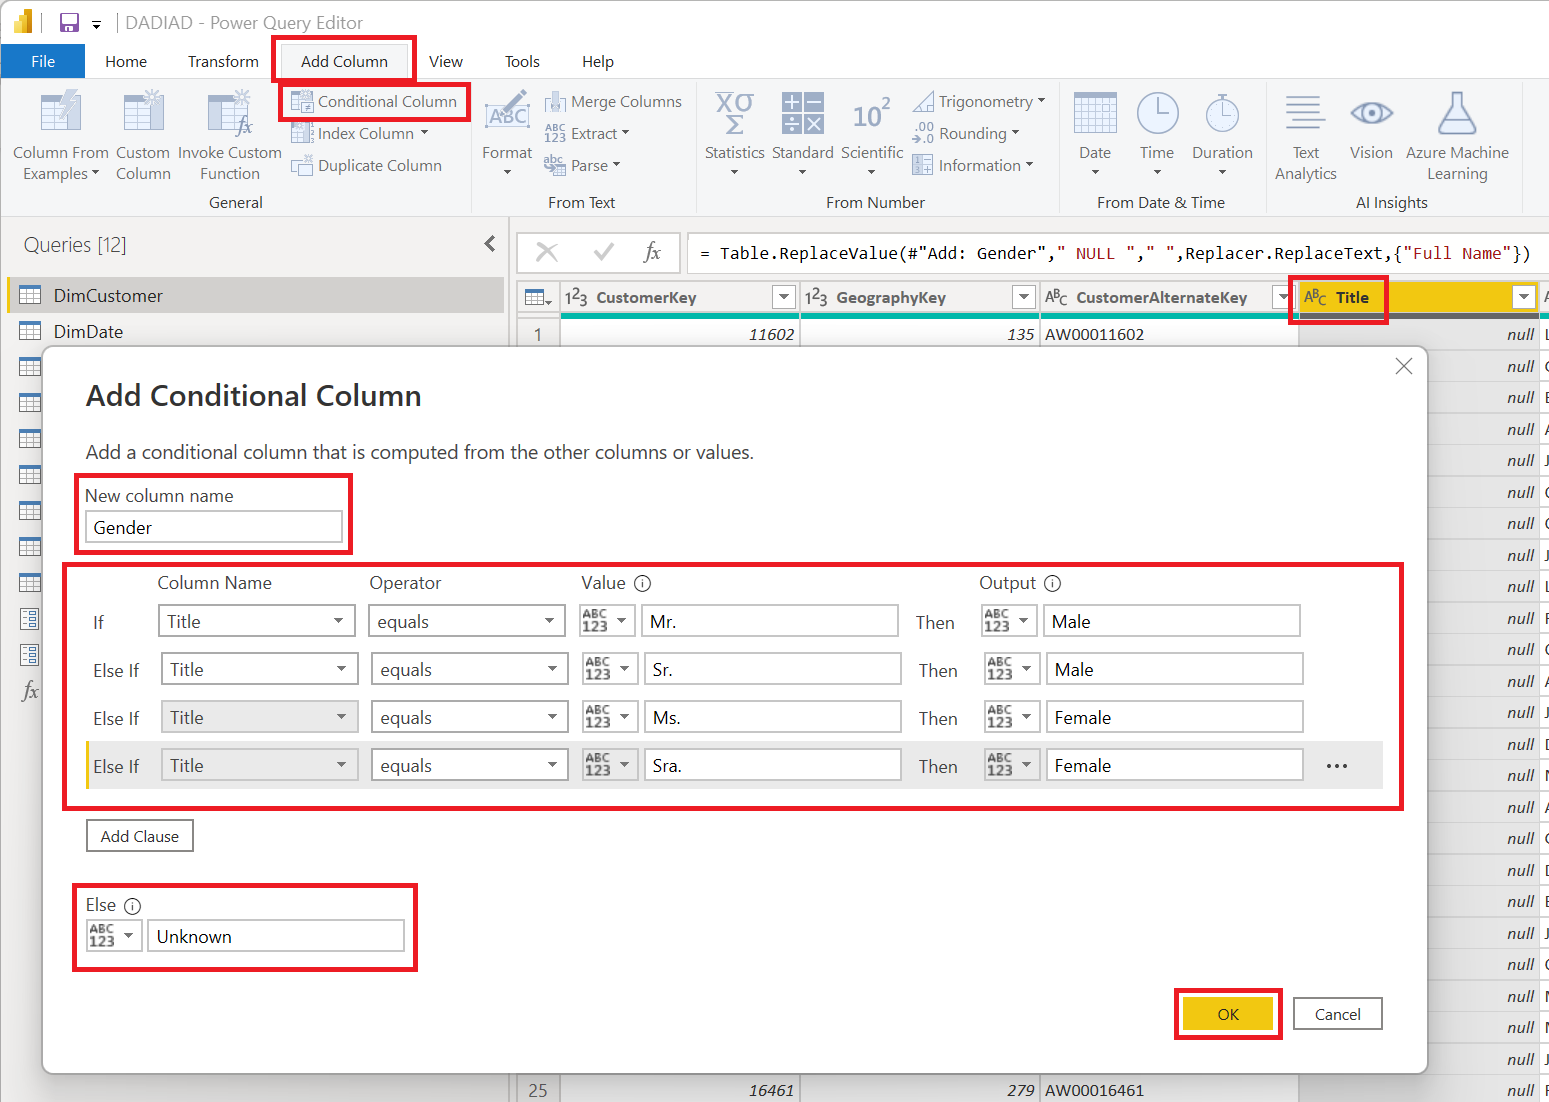
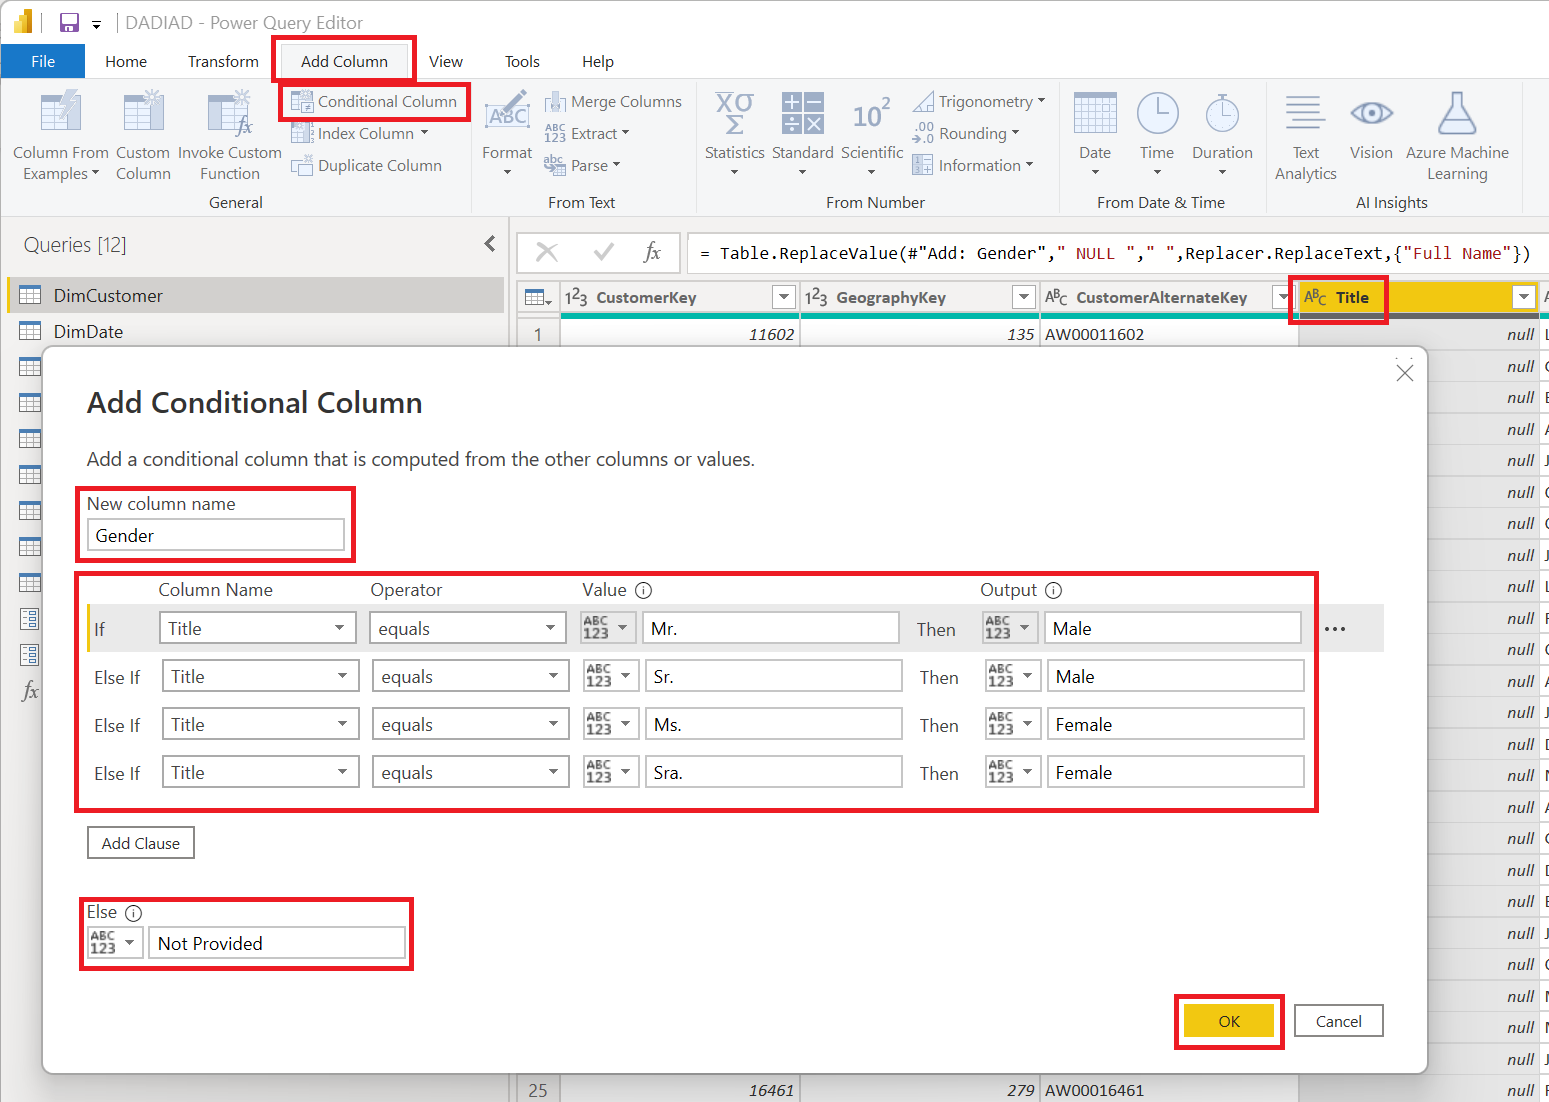
Correcting M queries

Changed region(s): [[0.031, 0.4011, 0.9296, 0.8947], [0.7437, 0.8947, 0.8986, 0.9564], [0.062, 0.3394, 0.2789, 0.3702]]

diff --git a/Day After Dashboard in a Day/DataPreparation.md b/Day After Dashboard in a Day/DataPreparation.md
@@ -494,7 +494,18 @@ Query folding is the ability for a Power Query query to generate a single query 
 
     ![Power Platform dataflows.](./Media/ppDataflows.png)
 
-1. Within the **Navigator** window, navigate to the group Workspace where the dataflow is located and select all of the tables located within the dataflow. Select **Transform Data** when complete to enter the **Power Query Editor** window.
+1. Within the **Navigator** window, navigate to the group Workspace where the dataflow is located and select all of the tables listed below within the dataflow, once complete select the **Transform Data** option to continue.
+
+    | Table |
+    | :---- |
+    | DimCustomer |
+    | DimDate |
+    | DimEmployee |
+    | DimGeography |
+    | DimProduct_raw |
+    | DimProductCategory_raw |
+    | DimProductSubcategory_raw |
+    | FactInternetSales |
 
     ![Get dataflow tables.](./Media/getDataDataflow.png)
 
@@ -521,7 +532,7 @@ Query folding is the ability for a Power Query query to generate a single query 
     | If | Title | equals | Sr. | Male |
     | If | Title | equals | Ms. | Female |
     | If | Title | equals | Sra. | Female |
-    | else | Unknown | | |
+    | else | Not Provided | | |
 
     ![View Native Query.](./Media/AddConditionalColumn.png)
 
@@ -545,7 +556,7 @@ Query folding is the ability for a Power Query query to generate a single query 
                                 "Mr.",
                                 "Sr."
                             },
-                            [Gender]
+                            [Title]
                         )
                     then
                         "Male"
@@ -555,7 +566,7 @@ Query folding is the ability for a Power Query query to generate a single query 
                                 "Ms.",
                                 "Sra."
                             },
-                            [Gender]
+                            [Title]
                         )
                     then
                         "Female"
